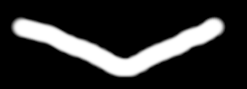
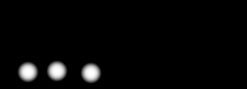
Changed ButtonArea so it can be made from more than one image. Added images for the number 004 to 007. Changed the up and down buttons to be three dots.

Changed region(s): [[0.0283, 0.1798, 0.9352, 0.9438], [0.0567, 0.6742, 0.2834, 0.9213]]

diff --git a/RallyTheRobots/GUI/LoadMenuScreen.cs b/RallyTheRobots/GUI/LoadMenuScreen.cs
@@ -14,57 +14,85 @@ namespace RallyTheRobots
         {
             //AddBackground("loadmenu.png");
             ButtonArea returnButton = new ButtonArea(_contentManager);
-            returnButton.SetIdleImage("loadmenu_return_idle.png");
-            returnButton.SetFocusedImage("loadmenu_return_focused.png");
+            returnButton.AddIdleImage("loadmenu_return_idle.png");
+            returnButton.AddFocusedImage("loadmenu_return_focused.png");
             returnButton.Position = new Vector2(83, 120);
             returnButton.SetButtonAction(new ChangeScreenButtonAction(_screenManager.GetScreen<StartMenuScreen>()));
             returnButton.HasShortcutWithGoBackButton = true;
             AddButtonArea(returnButton);
             ButtonArea filelistButton1 = new ButtonArea(_contentManager);
-            filelistButton1.SetIdleImage("loadmenu_snapshot_idle.png");
-            filelistButton1.SetFocusedImage("loadmenu_snapshot_focused.png");
+            filelistButton1.AddIdleImage("loadmenu_snapshot_idle.png");
+            filelistButton1.AddIdleImage("loadmenu_001_idle.png");
+            filelistButton1.AddIdleImage("loadmenu_end_paranteses_idle.png");
+            filelistButton1.AddFocusedImage("loadmenu_snapshot_focused.png");
+            filelistButton1.AddFocusedImage("loadmenu_001_focused.png");
+            filelistButton1.AddFocusedImage("loadmenu_end_paranteses_focused.png");
             filelistButton1.Position = new Vector2(83,270);
             AddButtonArea(filelistButton1);
             ButtonArea filelistButton2 = new ButtonArea(_contentManager);
-            filelistButton2.SetIdleImage("loadmenu_snapshot_idle.png");
-            filelistButton2.SetFocusedImage("loadmenu_snapshot_focused.png");
+            filelistButton2.AddIdleImage("loadmenu_snapshot_idle.png");
+            filelistButton2.AddIdleImage("loadmenu_002_idle.png");
+            filelistButton2.AddIdleImage("loadmenu_end_paranteses_idle.png");
+            filelistButton2.AddFocusedImage("loadmenu_snapshot_focused.png");
+            filelistButton2.AddFocusedImage("loadmenu_002_focused.png");
+            filelistButton2.AddFocusedImage("loadmenu_end_paranteses_focused.png");
             filelistButton2.Position = new Vector2(83, 420);
             AddButtonArea(filelistButton2);
             ButtonArea filelistButton3 = new ButtonArea(_contentManager);
-            filelistButton3.SetIdleImage("loadmenu_snapshot_idle.png");
-            filelistButton3.SetFocusedImage("loadmenu_snapshot_focused.png");
+            filelistButton3.AddIdleImage("loadmenu_snapshot_idle.png");
+            filelistButton3.AddIdleImage("loadmenu_003_idle.png");
+            filelistButton3.AddIdleImage("loadmenu_end_paranteses_idle.png");
+            filelistButton3.AddFocusedImage("loadmenu_snapshot_focused.png");
+            filelistButton3.AddFocusedImage("loadmenu_003_focused.png");
+            filelistButton3.AddFocusedImage("loadmenu_end_paranteses_focused.png");
             filelistButton3.Position = new Vector2(83, 570);
             AddButtonArea(filelistButton3);
             ButtonArea filelistButton4 = new ButtonArea(_contentManager);
-            filelistButton4.SetIdleImage("loadmenu_snapshot_idle.png");
-            filelistButton4.SetFocusedImage("loadmenu_snapshot_focused.png");
+            filelistButton4.AddIdleImage("loadmenu_snapshot_idle.png");
+            filelistButton4.AddIdleImage("loadmenu_004_idle.png");
+            filelistButton4.AddIdleImage("loadmenu_end_paranteses_idle.png");
+            filelistButton4.AddFocusedImage("loadmenu_snapshot_focused.png");
+            filelistButton4.AddFocusedImage("loadmenu_004_focused.png");
+            filelistButton4.AddFocusedImage("loadmenu_end_paranteses_focused.png");
             filelistButton4.Position = new Vector2(83, 720);
             AddButtonArea(filelistButton4);
             ButtonArea filelistButton5 = new ButtonArea(_contentManager);
-            filelistButton5.SetIdleImage("loadmenu_snapshot_idle.png");
-            filelistButton5.SetFocusedImage("loadmenu_snapshot_focused.png");
+            filelistButton5.AddIdleImage("loadmenu_snapshot_idle.png");
+            filelistButton5.AddIdleImage("loadmenu_005_idle.png");
+            filelistButton5.AddIdleImage("loadmenu_end_paranteses_idle.png");
+            filelistButton5.AddFocusedImage("loadmenu_snapshot_focused.png");
+            filelistButton5.AddFocusedImage("loadmenu_005_focused.png");
+            filelistButton5.AddFocusedImage("loadmenu_end_paranteses_focused.png");
             filelistButton5.Position = new Vector2(83, 870);
             AddButtonArea(filelistButton5);
             ButtonArea filelistButton6 = new ButtonArea(_contentManager);
-            filelistButton6.SetIdleImage("loadmenu_snapshot_idle.png");
-            filelistButton6.SetFocusedImage("loadmenu_snapshot_focused.png");
+            filelistButton6.AddIdleImage("loadmenu_snapshot_idle.png");
+            filelistButton6.AddIdleImage("loadmenu_006_idle.png");
+            filelistButton6.AddIdleImage("loadmenu_end_paranteses_idle.png");
+            filelistButton6.AddFocusedImage("loadmenu_snapshot_focused.png");
+            filelistButton6.AddFocusedImage("loadmenu_006_focused.png");
+            filelistButton6.AddFocusedImage("loadmenu_end_paranteses_focused.png");
             filelistButton6.Position = new Vector2(83, 1020);
             AddButtonArea(filelistButton6);
             ButtonArea filelistButton7 = new ButtonArea(_contentManager);
-            filelistButton7.SetIdleImage("loadmenu_snapshot_idle.png");
-            filelistButton7.SetFocusedImage("loadmenu_snapshot_focused.png");
+            filelistButton7.AddIdleImage("loadmenu_snapshot_idle.png");
+            filelistButton7.AddIdleImage("loadmenu_007_idle.png");
+            filelistButton7.AddIdleImage("loadmenu_end_paranteses_idle.png");
+            filelistButton7.AddFocusedImage("loadmenu_snapshot_focused.png");
+            filelistButton7.AddFocusedImage("loadmenu_007_focused.png");
+            filelistButton7.AddFocusedImage("loadmenu_end_paranteses_focused.png");
             filelistButton7.Position = new Vector2(83, 1170);
             AddButtonArea(filelistButton7);
 
             ButtonArea scrollUpButton = new ButtonArea(_contentManager);
-            scrollUpButton.SetIdleImage("loadmenu_up_idle.png");
-            scrollUpButton.SetFocusedImage("loadmenu_up_focused.png");
+            scrollUpButton.AddIdleImage("loadmenu_up_idle.png");
+            scrollUpButton.AddFocusedImage("loadmenu_up_focused.png");
             scrollUpButton.Position = new Vector2(83, 0);
             AddScrollUp(scrollUpButton);
             ButtonArea scrollDownButton = new ButtonArea(_contentManager);
-            scrollDownButton.SetIdleImage("loadmenu_down_idle.png");
-            scrollDownButton.SetFocusedImage("loadmenu_down_focused.png");
-            scrollDownButton.Position = new Vector2(83, 990);
+            scrollDownButton.AddIdleImage("loadmenu_down_idle.png");
+            scrollDownButton.AddFocusedImage("loadmenu_down_focused.png");
+            scrollDownButton.Position = new Vector2(83, 870);
             AddScrollDown(scrollDownButton);
 
             SetScrollable(true);

diff --git a/RallyTheRobots/GUI/Common/ButtonArea.cs b/RallyTheRobots/GUI/Common/ButtonArea.cs
@@ -13,14 +13,10 @@ namespace RallyTheRobots
     public class ButtonArea
     {
         protected readonly ContentManager _contentManager;
-        //protected Texture2D _idleImage;
-        protected string _idleImageName;
-        //protected Texture2D _disabledImage;
-        protected string _disabledImageName;
-        //protected Texture2D _focusedImage;
-        protected string _focusedImageName;
-        //protected Texture2D _selectedImage;
-        protected string _selectedImageName;
+        protected List<string> _idleImageName = new List<string>();
+        protected List<string> _disabledImageName = new List<string>();
+        protected List<string> _focusedImageName = new List<string>();
+        protected List<string> _selectedImageName = new List<string>();
         public Vector2 Position;
         public bool Visible = true;
         public bool Disabled = false;
@@ -34,25 +30,25 @@ namespace RallyTheRobots
         {
             _contentManager = contentManager;
         }
-        public virtual void SetIdleImage(string imageName)
+        public virtual void AddIdleImage(string imageName)
         {
-            _idleImageName = imageName;
-            _contentManager.AddImage(_idleImageName);
+            _idleImageName.Add(imageName);
+            _contentManager.AddImage(imageName);
         }
-        public virtual void SetFocusedImage(string imageName)
+        public virtual void AddFocusedImage(string imageName)
         {
-            _focusedImageName = imageName;
-            _contentManager.AddImage(_focusedImageName);
+            _focusedImageName.Add(imageName);
+            _contentManager.AddImage(imageName);
         }
-        public virtual void SetSelectedImage(string imageName)
+        public virtual void AddSelectedImage(string imageName)
         {
-            _selectedImageName = imageName;
-            _contentManager.AddImage(_selectedImageName);
+            _selectedImageName.Add(imageName);
+            _contentManager.AddImage(imageName);
         }
-        public virtual void SetDisabledImage(string imagePath)
+        public virtual void AddDisabledImage(string imageName)
         {
-            _disabledImageName = imagePath;
-            _contentManager.AddImage(_disabledImageName);
+            _disabledImageName.Add(imageName);
+            _contentManager.AddImage(imageName);
         }
         public virtual void SetButtonAction(ButtonAction buttonAction)
         {
@@ -61,29 +57,39 @@ namespace RallyTheRobots
         public virtual void LoadContent(GraphicsDevice graphicsDevice)
         {
         }
-        protected virtual Texture2D GetCurrentImage()
+        protected virtual List<string> GetCurrentImageNameList()
         {
-            Texture2D buttonImage = null;
+            List<string> buttonImageNameList = null;
             if (Visible)
             {
                 if (Disabled)
-                    buttonImage = _contentManager.GetImage(_disabledImageName);
+                    buttonImageNameList = _disabledImageName;
                 else if (Status == ButtonStatusEnum.Focused)
-                    buttonImage = _contentManager.GetImage(_focusedImageName);
+                    buttonImageNameList = _focusedImageName;
                 else if (Status == ButtonStatusEnum.Selected)
-                    buttonImage = _contentManager.GetImage(_selectedImageName);
-                if(buttonImage == null)
-                    buttonImage = _contentManager.GetImage(_idleImageName);
+                    buttonImageNameList = _selectedImageName;
+                if(buttonImageNameList == null)
+                    buttonImageNameList = _idleImageName;
             }
-            return buttonImage;
+            return buttonImageNameList;
         }
         public virtual Vector2 GetSize()
         {
-            Texture2D buttonImage = GetCurrentImage();
-            if (buttonImage != null)
-                return new Vector2(buttonImage.Width, buttonImage.Height);
-            else
-                return new Vector2(0, 0);
+            Vector2 size = new Vector2(0, 0);
+            List<string> currentImageNameList = GetCurrentImageNameList();
+            if (currentImageNameList != null)
+            {
+                foreach (string name in currentImageNameList)
+                {
+                    Texture2D buttonImage = _contentManager.GetImage(name);
+                    if (buttonImage != null)
+                    {
+                        size.Y = (buttonImage.Height > size.Y) ? buttonImage.Height : size.Y;
+                        size.X = size.X + buttonImage.Width;
+                    }
+                }
+            }
+            return size;
         }
         public virtual void Initialize()
         {
@@ -105,9 +111,20 @@ namespace RallyTheRobots
         }
         public virtual void Draw(GameTime gameTime, GraphicsDevice graphicsDevice, GameSettings gameSettings, SpriteBatch spriteBatch, Vector2 offset)
         {
-            Texture2D buttonImage = GetCurrentImage();
-            if(buttonImage != null)
-                spriteBatch.Draw(buttonImage, Position + offset, Color.White);
+            Vector2 imageOffset = new Vector2(0, 0);
+            List<string> currentImageNameList = GetCurrentImageNameList();
+            if (currentImageNameList != null)
+            {
+                foreach (string name in currentImageNameList)
+                {
+                    Texture2D buttonImage = _contentManager.GetImage(name);
+                    if (buttonImage != null)
+                    {
+                        spriteBatch.Draw(buttonImage, Position + offset + imageOffset, Color.White);
+                        imageOffset.X = imageOffset.X + buttonImage.Width;
+                    }
+                }
+            }
         }
     }
 }

diff --git a/RallyTheRobots/GUI/StartMenuScreen.cs b/RallyTheRobots/GUI/StartMenuScreen.cs
@@ -11,29 +11,29 @@ namespace RallyTheRobots
         {
             AddBackground("startmenu.png");
             ButtonArea continueGameButton = new ButtonArea(_contentManager);
-            continueGameButton.SetIdleImage("startmenu_continue_idle.png");
-            continueGameButton.SetFocusedImage("startmenu_continue_focused.png");
+            continueGameButton.AddIdleImage("startmenu_continue_idle.png");
+            continueGameButton.AddFocusedImage("startmenu_continue_focused.png");
             continueGameButton.Position = new Vector2(83, 414);
             AddButtonArea(continueGameButton);
             ButtonArea loadGameButton = new ButtonArea(_contentManager);
-            loadGameButton.SetIdleImage("startmenu_load_idle.png");
-            loadGameButton.SetFocusedImage("startmenu_load_focused.png");
+            loadGameButton.AddIdleImage("startmenu_load_idle.png");
+            loadGameButton.AddFocusedImage("startmenu_load_focused.png");
             loadGameButton.Position = new Vector2(83, 519);
             loadGameButton.SetButtonAction(new ChangeScreenButtonAction(_screenManager.GetScreen<LoadMenuScreen>()));
             AddButtonArea(loadGameButton);
             ButtonArea newGameButton = new ButtonArea(_contentManager);
-            newGameButton.SetIdleImage("startmenu_new_idle.png");
-            newGameButton.SetFocusedImage("startmenu_new_focused.png");
+            newGameButton.AddIdleImage("startmenu_new_idle.png");
+            newGameButton.AddFocusedImage("startmenu_new_focused.png");
             newGameButton.Position = new Vector2(83, 655);
             AddButtonArea(newGameButton);
             ButtonArea settingsButton = new ButtonArea(_contentManager);
-            settingsButton.SetIdleImage("startmenu_settings_idle.png");
-            settingsButton.SetFocusedImage("startmenu_settings_focused.png");
+            settingsButton.AddIdleImage("startmenu_settings_idle.png");
+            settingsButton.AddFocusedImage("startmenu_settings_focused.png");
             settingsButton.Position = new Vector2(83, 790);
             AddButtonArea(settingsButton);
             ButtonArea exitButton = new ButtonArea(_contentManager);
-            exitButton.SetIdleImage("startmenu_exit_idle.png");
-            exitButton.SetFocusedImage("startmenu_exit_focused.png");
+            exitButton.AddIdleImage("startmenu_exit_idle.png");
+            exitButton.AddFocusedImage("startmenu_exit_focused.png");
             exitButton.Position = new Vector2(83, 905);
             exitButton.SetButtonAction(new ExitToDesktopButtonAction());
             exitButton.HasShortcutWithGoBackButton = true;

diff --git a/RallyTheRobots/GUI/Common/Screen.cs b/RallyTheRobots/GUI/Common/Screen.cs
@@ -12,7 +12,6 @@ namespace RallyTheRobots
         const double FOCUS_CHANGE_TIME = 0.4;
         protected readonly ContentManager _contentManager;
         protected Vector2 _zeroPosition;
-        //protected Texture2D _background;
         protected string _backgroundName;
         protected Screen _anyButtonScreen;
         protected Screen _timeoutScreen;
